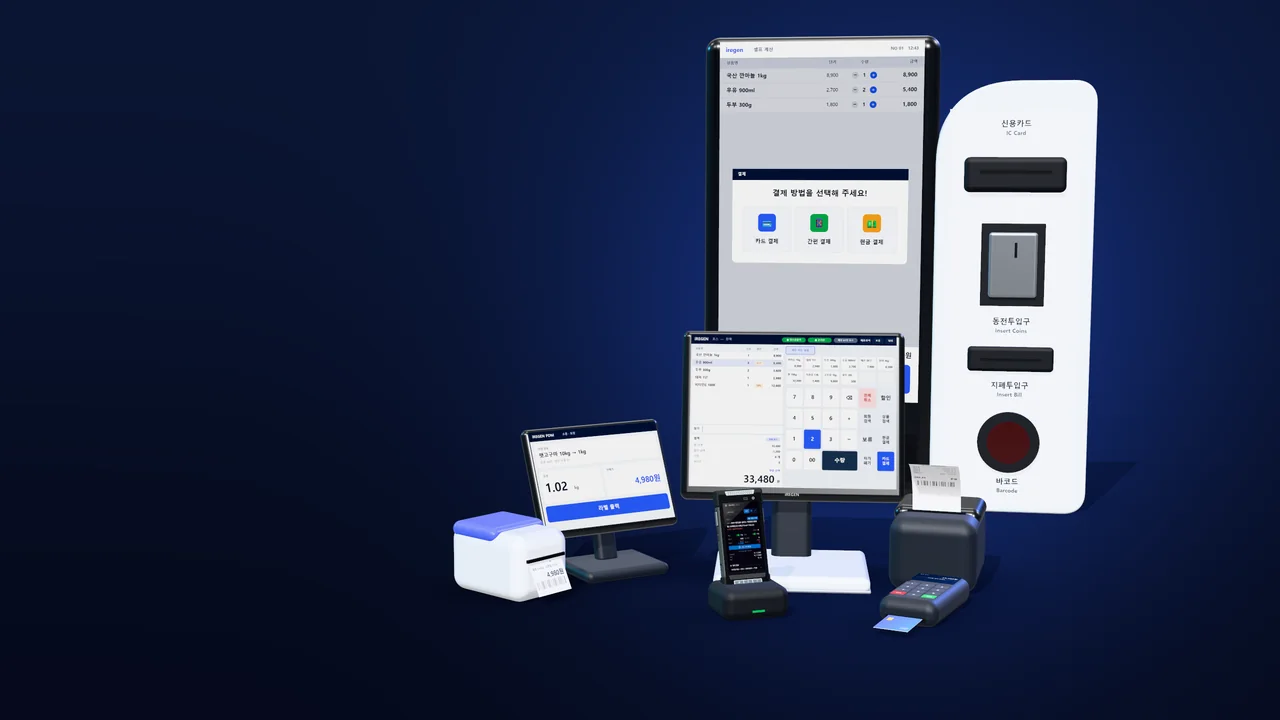
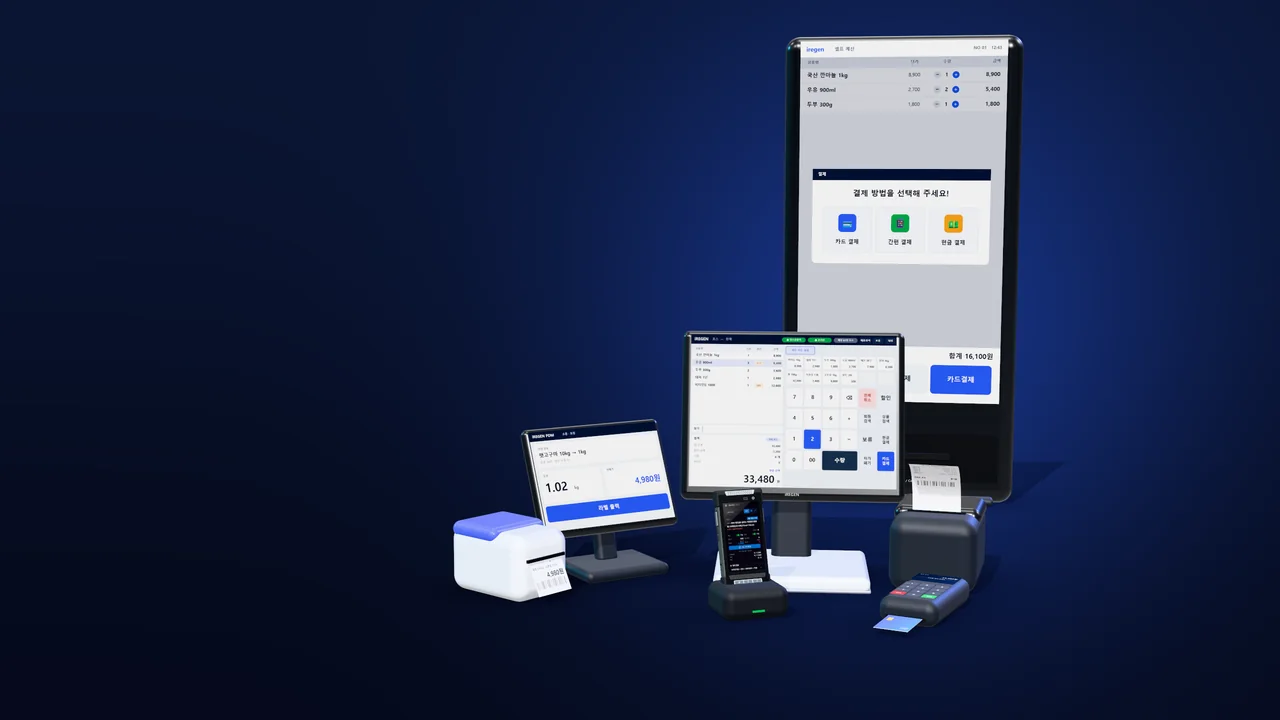
장비 배너: 키오스크 옆 흰 결제기 뺌(사용자 요청)

Changed region(s): [[0.5312, 0.0306, 0.875, 0.7333]]

diff --git a/index.html b/index.html
@@ -47,7 +47,7 @@
 <main>
 <!-- ============ 히어로 ============ -->
 <section class="hero" aria-label="아이리젠 소개">
-  <div class="hero-photo" aria-hidden="true"><picture><source media="(max-width: 760px)" srcset="assets/img/hero-devices-sm.webp"><img src="assets/img/hero-devices.webp" alt="" width="2560" height="1440" decoding="async"></picture></div>
+  <div class="hero-photo" aria-hidden="true"><picture><source media="(max-width: 760px)" srcset="assets/img/hero-devices-sm.webp?v=2"><img src="assets/img/hero-devices.webp?v=2" alt="" width="2560" height="1440" decoding="async"></picture></div>
   <div class="hero-grid" aria-hidden="true"></div>
   <div class="hero-orb o1" aria-hidden="true"></div>
   <div class="hero-orb o2" aria-hidden="true"></div>
